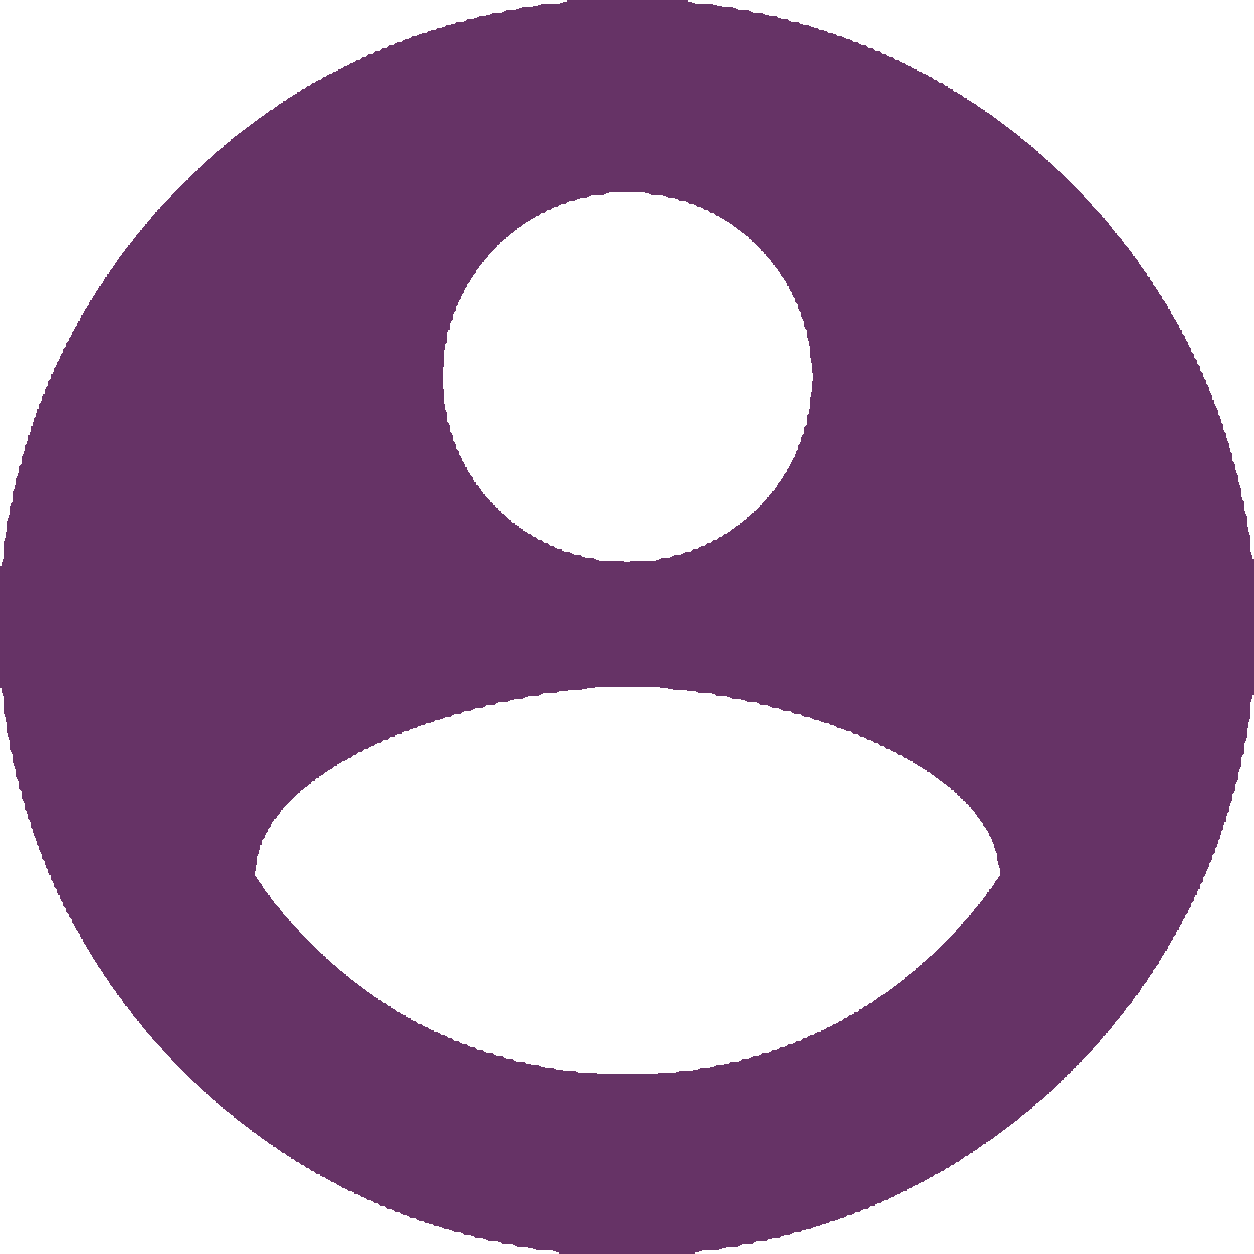
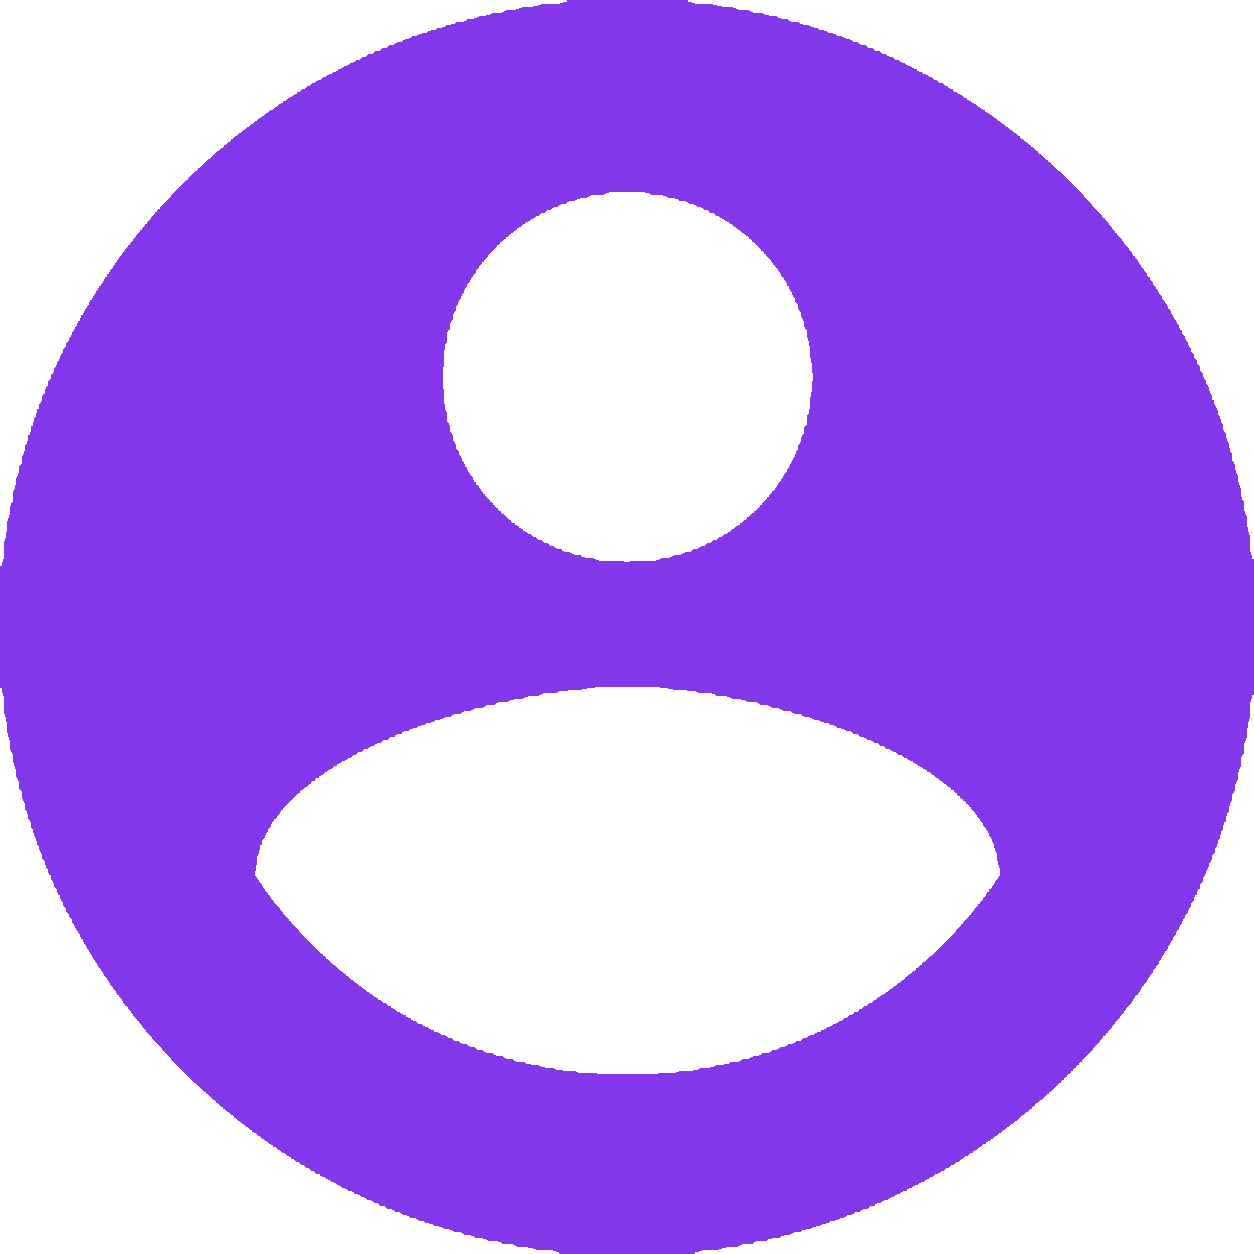
Deployed to firebase

diff --git a/we-fontys/public/404.html b/we-fontys/public/404.html
@@ -1,0 +1,33 @@
+<!DOCTYPE html>
+<html>
+  <head>
+    <meta charset="utf-8">
+    <meta name="viewport" content="width=device-width, initial-scale=1">
+    <title>Page Not Found</title>
+
+    <style media="screen">
+      body { background: #ECEFF1; color: rgba(0,0,0,0.87); font-family: Roboto, Helvetica, Arial, sans-serif; margin: 0; padding: 0; }
+      #message { background: white; max-width: 360px; margin: 100px auto 16px; padding: 32px 24px 16px; border-radius: 3px; }
+      #message h3 { color: #888; font-weight: normal; font-size: 16px; margin: 16px 0 12px; }
+      #message h2 { color: #ffa100; font-weight: bold; font-size: 16px; margin: 0 0 8px; }
+      #message h1 { font-size: 22px; font-weight: 300; color: rgba(0,0,0,0.6); margin: 0 0 16px;}
+      #message p { line-height: 140%; margin: 16px 0 24px; font-size: 14px; }
+      #message a { display: block; text-align: center; background: #039be5; text-transform: uppercase; text-decoration: none; color: white; padding: 16px; border-radius: 4px; }
+      #message, #message a { box-shadow: 0 1px 3px rgba(0,0,0,0.12), 0 1px 2px rgba(0,0,0,0.24); }
+      #load { color: rgba(0,0,0,0.4); text-align: center; font-size: 13px; }
+      @media (max-width: 600px) {
+        body, #message { margin-top: 0; background: white; box-shadow: none; }
+        body { border-top: 16px solid #ffa100; }
+      }
+    </style>
+  </head>
+  <body>
+    <div id="message">
+      <h2>404</h2>
+      <h1>Page Not Found</h1>
+      <p>The specified file was not found on this website. Please check the URL for mistakes and try again.</p>
+      <h3>Why am I seeing this?</h3>
+      <p>This page was generated by the Firebase Command-Line Interface. To modify it, edit the <code>404.html</code> file in your project's configured <code>public</code> directory.</p>
+    </div>
+  </body>
+</html>

diff --git a/we-fontys/public/index.html b/we-fontys/public/index.html
@@ -31,7 +31,16 @@
       Learn how to configure a non-root public URL by running `npm run build`.
     -->
     <title>WeFontys</title>
-    <link rel="stylesheet" href="https://use.fontawesome.com/releases/v5.15.1/css/all.css" integrity="sha384-vp86vTRFVJgpjF9jiIGPEEqYqlDwgyBgEF109VFjmqGmIY/Y4HV4d3Gp2irVfcrp" crossorigin="anonymous">  </head>
+    <link rel="stylesheet" href="https://use.fontawesome.com/releases/v5.15.1/css/all.css" integrity="sha384-vp86vTRFVJgpjF9jiIGPEEqYqlDwgyBgEF109VFjmqGmIY/Y4HV4d3Gp2irVfcrp" crossorigin="anonymous"> 
+    
+    <link rel="apple-touch-icon" sizes="180x180" href="/apple-touch-icon.png">
+    <link rel="icon" type="image/png" sizes="32x32" href="/favicon-32x32.png">
+    <link rel="icon" type="image/png" sizes="16x16" href="/favicon-16x16.png">
+    <link rel="manifest" href="/site.webmanifest">
+    <link rel="mask-icon" href="/safari-pinned-tab.svg" color="#5bbad5">
+    <meta name="msapplication-TileColor" content="#da532c">
+    <meta name="theme-color" content="#ffffff">
+  </head>
   <body>
     <noscript>You need to enable JavaScript to run this app.</noscript>
     <div id="root"></div>

diff --git a/we-fontys/src/components/Discussions/DiscussionBox.js b/we-fontys/src/components/Discussions/DiscussionBox.js
@@ -34,7 +34,12 @@ const DiscussionBox = (props) => {
       <div className="col-lg-3 row text-center">
         <div className="col-4 col-lg-12">
           <img
-            src={authorData && authorData.photoURL}
+            src={
+              authorData
+              ? authorData.photoURL !== ""
+                ? authorData.photoURL
+                : account_image
+              : account_image}
             className={classes.discussion_box_image}
             alt="img"
           />
@@ -45,9 +50,9 @@ const DiscussionBox = (props) => {
         </div>
       </div>
       <div className="col-lg-9 p-0">
-        <div className="row my-2 my-md-0 ">
-          <h3 className="col-md-9 pr-md-0">{props.title}</h3> 
-          <p className="col-md-3">
+        <div className="d-md-flex justify-content-between my-2 my-md-0 ">
+          <h3 className=" pr-md-0">{props.title}</h3> 
+          <p className="">
             <span className="badge badge-primary purple-bgc  ml-1 px-3 py-2">
               {props.category}
             </span>

diff --git a/we-fontys/src/components/Discussions/DiscussionDetail/DiscussionComment.js b/we-fontys/src/components/Discussions/DiscussionDetail/DiscussionComment.js
@@ -2,6 +2,7 @@ import React, { useState, useEffect } from "react";
 import classes from "../Discussions.module.scss";
 import axios from "../../../axios";
 import dayjs from "dayjs"
+import account_image from '../../../assets/account/account_icon_purple.png'
 
 const DiscussionComment = (props) => {
   const [authorData, setAuthorData] = useState();
@@ -28,7 +29,12 @@ const DiscussionComment = (props) => {
         <div className="mx-md-auto d-flex d-md-block justify-content-start ">
           <div className="text-center mr-2 mr-md-0">
             <img
-              src={authorData && authorData.photoURL}
+              src={
+                authorData
+                ? authorData.photoURL !== ""
+                  ? authorData.photoURL
+                  : account_image
+                : account_image}
               className={classes.discussion_box_image}
               alt="profile image"
             />

diff --git a/we-fontys/src/components/User/Profile.js b/we-fontys/src/components/User/Profile.js
@@ -21,15 +21,18 @@ const Profile = (props) => {
 
   // Update user data from Firebase Realtime Database
   useEffect(() => {
-    axios
-      .get(`/users/${props.match.params.id}.json`)
-      .then((userData) => {
-        // Set user data state
-        setUserData(userData.data);
-      })
-      .catch((err) => {
-        console.log("err", err);
-      });
+    if(currentUser){
+      axios
+        .get(`/users/${props.match.params.id}.json`)
+        .then((userData) => {
+          // Set user data state
+          setUserData(userData.data);
+        })
+        .catch((err) => {
+          console.log("err", err);
+        });
+
+    }
   }, []);
 
   async function handleLogout() {

diff --git a/we-fontys/src/components/Navbar/Navbar.js b/we-fontys/src/components/Navbar/Navbar.js
@@ -24,7 +24,6 @@ const Navigationbar = () => {
   const [expanded, setExpanded] = useState(false);
   const [userData, setUserData] = useState();
   
-
   let togglerClasses = [];
   let collapseClasses = [];
 
@@ -93,13 +92,6 @@ const Navigationbar = () => {
             to={`/profile/` + currentUser.uid}
           >
             Profile
-          </Link>
-          <Link
-            onClick={() => setExpanded(false)}
-            className="dropdown-item"
-            to="/"
-          >
-            Help
           </Link>
           <NavDropdown.Divider />
           <div class="ml-2">

diff --git a/we-fontys/src/components/Discussions/Discussions.js b/we-fontys/src/components/Discussions/Discussions.js
@@ -57,7 +57,7 @@ const Discussions = () => {
         <Categories filterDiscussions={(e) => filterDiscussions(e.target.value)} filter={filter}/>
       </div>
       <div className="col-md-9">
-        <h2 className="mt-2 mb-3 ">{filter} discussions</h2>
+        <h1 className="mt-2 mb-3 ">{filter} discussions</h1>
         <div className="discussions-list">
           {discussions.length !== 0 ? filteredDiscussions.map((discussion, idx) => {
             return <DiscussionBox 

diff --git a/we-fontys/src/components/Discussions/Categories.js b/we-fontys/src/components/Discussions/Categories.js
@@ -22,7 +22,7 @@ const Categories = (props) => {
   return (
     <div>
       {isMobile ? (
-        <Form.Group className="w-50" controlId="discussion-form-category">
+        <Form.Group className="w-75 mx-auto my-4" controlId="discussion-form-category">
           <Form.Control as="select" onChange={(e) => props.filterDiscussions(e)}>
             {categoryList.map((category, idx) => {
               return (

diff --git a/we-fontys/src/shared/sharedFunctions.js b/we-fontys/src/shared/sharedFunctions.js
@@ -8,7 +8,6 @@ export const objectsAreTheSame = (objectOne, objectTwo) => {
 
   // loop through first object keys
   for (let key of objectOneKeys) {
-    console.log(objectOne[key],  objectTwo[key],   objectOne[key] == objectTwo[key])    
 
     // Check if field if array (interests) // arrays are objects
     if (typeof(objectOne[key]) == "object") {

diff --git a/we-fontys/src/components/Navbar/Navbar.module.scss b/we-fontys/src/components/Navbar/Navbar.module.scss
@@ -34,7 +34,6 @@
 .btn_signup {
   margin: 0;
   padding: 5px 15px;
-  max-width: 95px;
   color: white;
   font-size: 1.2rem;
   border-radius: 50px;

diff --git a/we-fontys/src/components/Footer/Footer.module.scss b/we-fontys/src/components/Footer/Footer.module.scss
@@ -2,6 +2,7 @@
 
 .footer{
     // height: 50px;
+    margin-top: 8rem;
     padding: 20px ;
     background-color: $gray-light;
 }
